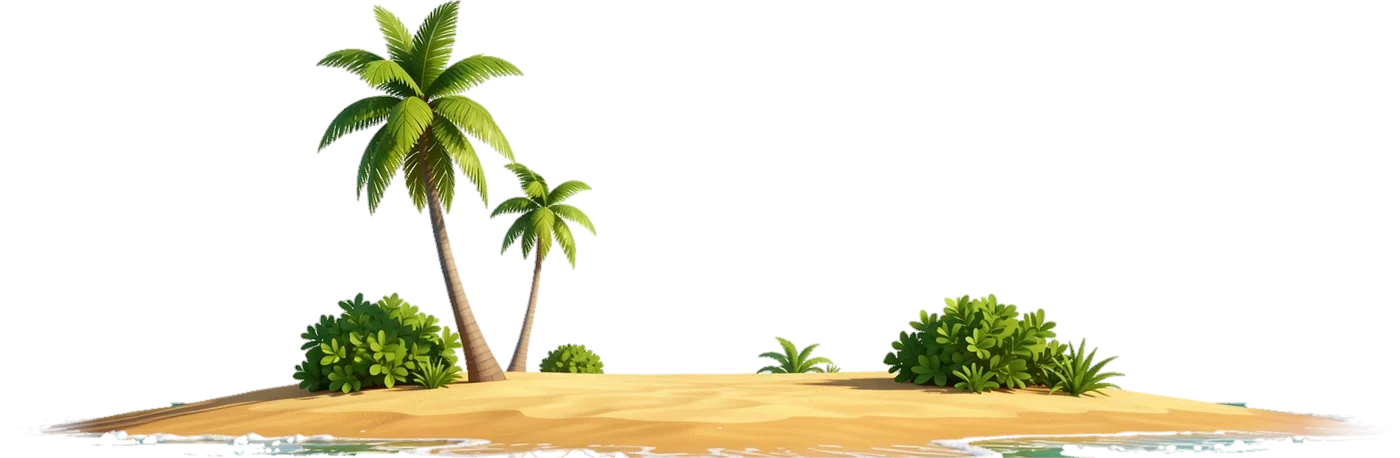
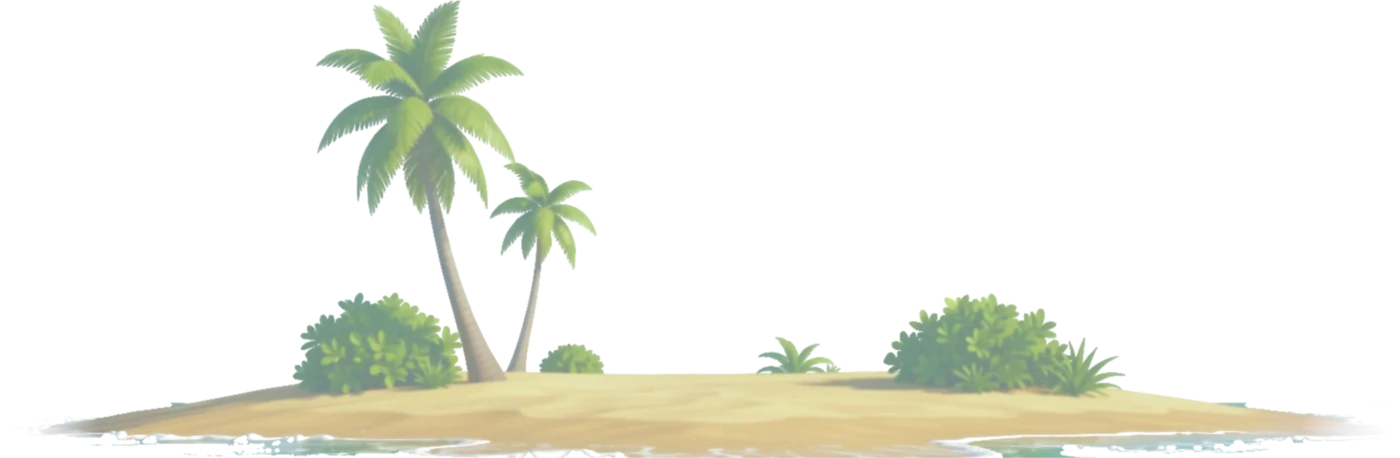
Near coasts hazed in the picture (lifted darks, soft detail) so they read as far off on the horizon

Changed region(s): [[0.0307, 0.0, 0.9521, 1.0]]

diff --git a/game/level/skyline.js b/game/level/skyline.js
@@ -45,8 +45,8 @@ export const NEAR_COAST = {
     scroll: 0.5,           // share of the camera's movement (nearer than the far skyline, but a coast on the horizon)
     width: 1400,           // px of one piece at size 1
     size: [0.4, 0.56],     // (playtest: "no foreground islands": a coast sits on the horizon behind the sea, never big and dark over the swimmer)
-    alpha: 0.85,           // hazed by the air between ...
-    tint: 0xbfe0ea,        // ... which also takes its darks toward the sky's colour
+    alpha: 0.94,           // the air between is baked into the pictures (scripts/fx/coast_haze.py) ...
+    tint: 0xf2fbff,        // ... a tint only multiplies, so it just cools them a touch
     gap: [0.5, 1.6],       // gap after a piece, in piece widths (small: the island shows on most jumps)
     edge: 0.08,            // share of the biome left free at both ends (its neighbours' coasts take over)
     biomes: ['reef', 'kelp', 'harbour', 'shore']

diff --git a/scripts/fx/coast_haze.py b/scripts/fx/coast_haze.py
@@ -1,0 +1,25 @@
+# The near coasts as seen on the horizon (img/coast/<id>.webp): the painted coast pieces hazed by the
+# air between, so they read as far off without a tint (a tint only multiplies: the near-black rock
+# stayed black). Darks are lifted toward the sky's colour more than the lights, contrast drops, the
+# detail softens; the alpha is kept. Run on the untouched originals (kept outside public/).
+# usage: python -I scripts/fx/coast_haze.py <originals dir> <repo root>   (the near coasts only: <biome id>.webp; the sea arch is close by and stays crisp)
+import sys, os
+import numpy as np
+from PIL import Image, ImageFilter
+
+SRC, ROOT = sys.argv[1], sys.argv[2]
+FOG = np.array([186, 220, 230], np.float32)   # the sky low over the sea
+HAZE = (0.28, 0.62)                           # share of fog over the lightest .. the darkest values
+SOFT = 1.2                                    # px of blur: far detail is out of focus
+
+for f in [os.path.join(SRC, f'{b}.webp') for b in ('reef', 'kelp', 'harbour', 'shore')]:
+    img = Image.open(f).convert('RGBA')
+    a = np.asarray(img.filter(ImageFilter.GaussianBlur(SOFT))).astype(np.float32)
+    a[..., 3] = np.asarray(img)[..., 3]       # the outline stays crisp enough to read
+    rgb = a[..., :3]
+    lum = (rgb @ np.array([0.299, 0.587, 0.114], np.float32) / 255)[..., None]
+    h = HAZE[0] + (HAZE[1] - HAZE[0]) * (1 - lum)
+    a[..., :3] = rgb * (1 - h) + FOG * h
+    out = os.path.join(ROOT, 'public', 'img', 'coast', os.path.basename(f))
+    Image.fromarray(np.clip(a, 0, 255).astype(np.uint8), 'RGBA').save(out, quality=88, method=6)
+    print(out, img.size)
